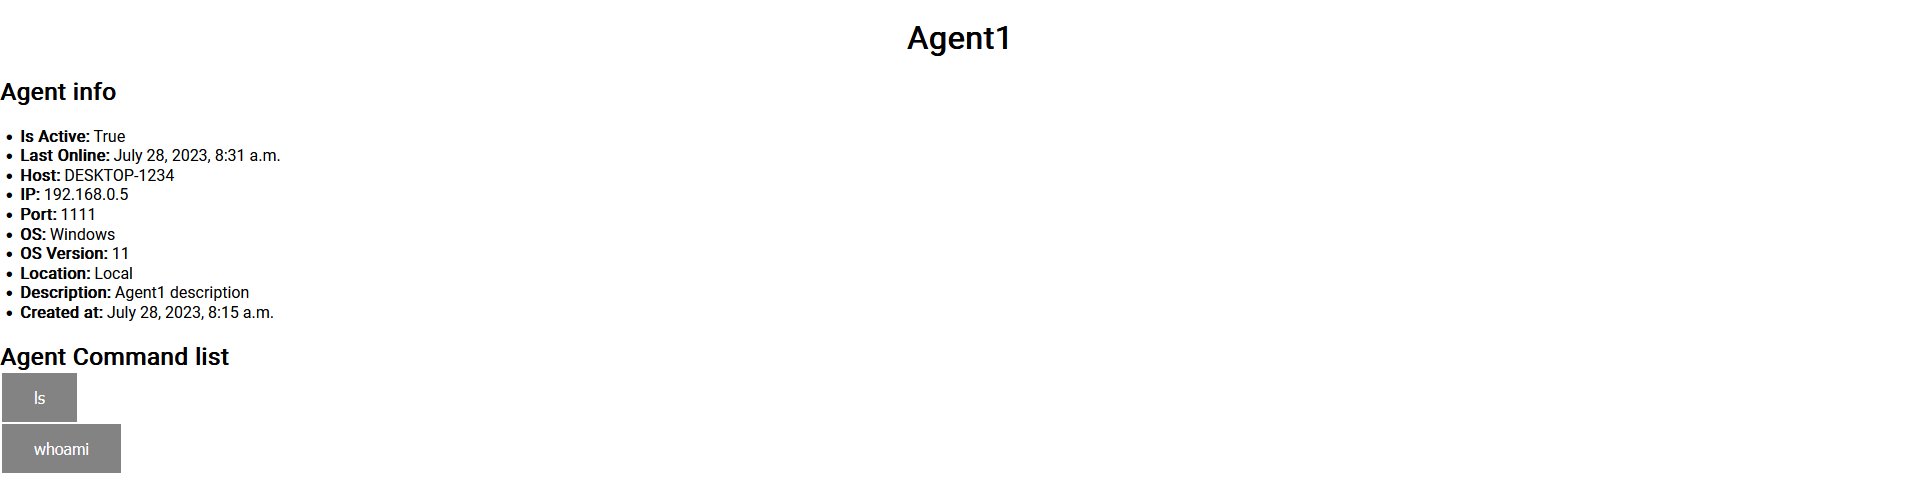
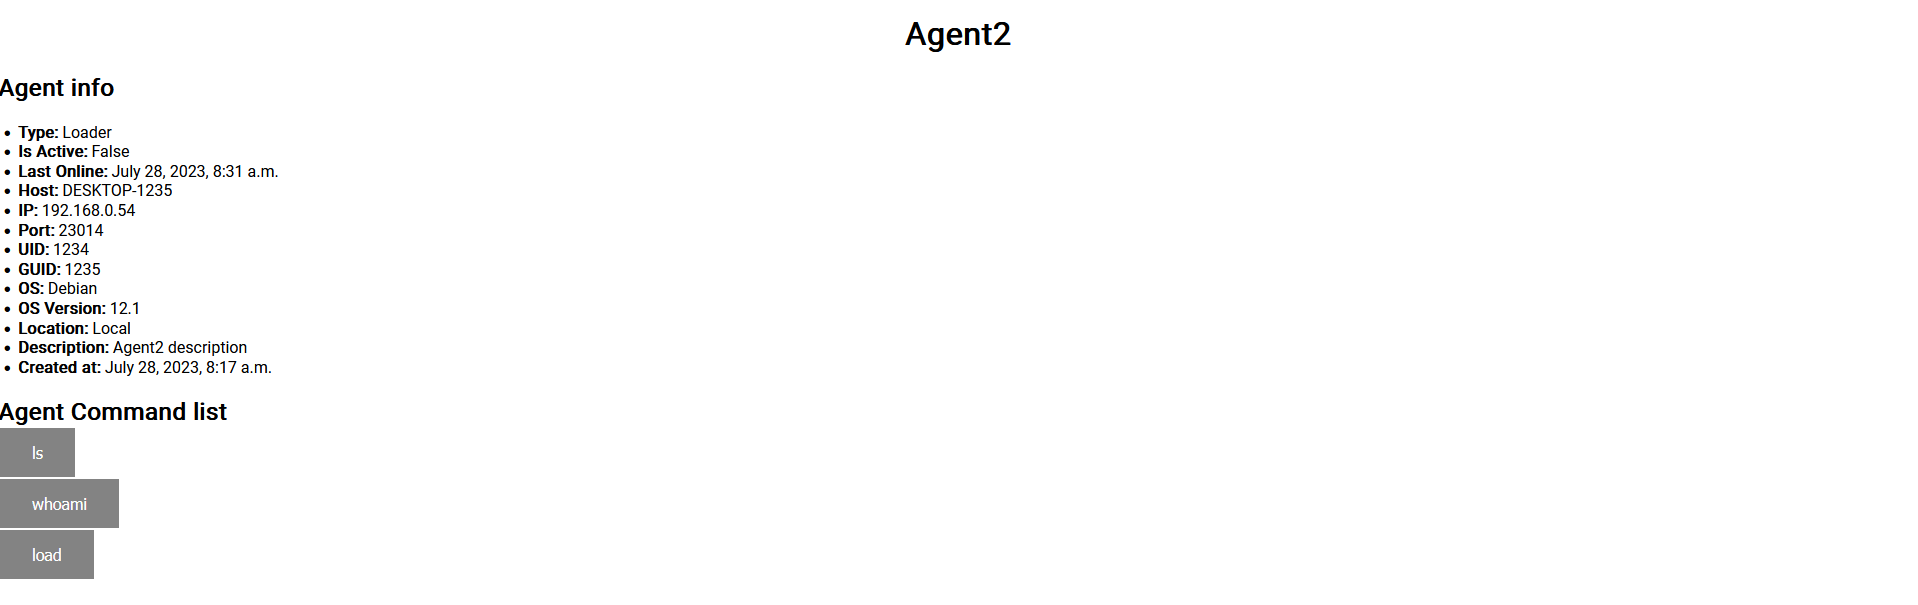
Agent type

Changed region(s): [[0.0, 0.1202, 0.1538, 0.7515], [0.0, 0.7816, 0.0615, 0.9619], [0.4614, 0.0301, 0.5229, 0.1202]]

diff --git a/IFHWI/C2/templates/C2/index.html b/IFHWI/C2/templates/C2/index.html
@@ -6,11 +6,14 @@
 <table class="AgentsTable">
     <tr>
         <th>Name</th>
+        <th>Type</th>
         <th>Is Ative</th>
         <th>Last Online</th>
         <th>Host</th>
         <th>IP</th>
         <th>Port</th>
+        <th>UID</th>
+        <th>GUID</th>
         <th>OS</th>
         <th>OS Version</th>
         <th>Location</th>
@@ -21,6 +24,7 @@
     {% for agent in agents %}
     <tr id="{{ agent.id }}" onclick="openAgent()">
         <td>{{ agent.name }}</td>
+        <td>{{ agent.type }}</td>
         <td>
             {% if agent.is_active %}
             <input type="checkbox" checked>
@@ -32,6 +36,8 @@
         <td>{{ agent.host }}</td>
         <td>{{ agent.ip }}</td>
         <td>{{ agent.port }}</td>
+        <td>{{ agent.uid }}</td>
+        <td>{{ agent.guid }}</td>
         <td>{{ agent.os }}</td>
         <td>{{ agent.os_version }}</td>
         <td>{{ agent.location }}</td>

diff --git a/IFHWI/C2/templates/C2/agent.html b/IFHWI/C2/templates/C2/agent.html
@@ -6,11 +6,14 @@
 <h2>Agent info</h2>
 
 <ul class="AgentInfo">
+    <li><b>Type:</b> {{ agent.type }}</li>
     <li><b>Is Active:</b> {{ agent.is_active }}</li>
     <li><b>Last Online:</b> {{ agent.last_online }}</li>
     <li><b>Host:</b> {{ agent.host }}</li>
     <li><b>IP:</b> {{ agent.ip }}</li>
     <li><b>Port:</b> {{ agent.port }}</li>
+    <li><b>UID:</b> {{ agent.uid }}</li>
+    <li><b>GUID:</b> {{ agent.guid }}</li>
     <li><b>OS:</b> {{ agent.os }}</li>
     <li><b>OS Version:</b> {{ agent.os_version }}</li>
     <li><b>Location:</b> {{ agent.location }}</li>

diff --git a/IFHWI/C2/migrations/0004_agenttype_agent_guid_agent_uid_and_more.py b/IFHWI/C2/migrations/0004_agenttype_agent_guid_agent_uid_and_more.py
@@ -1,0 +1,71 @@
+# Generated by Django 4.2.1 on 2023-07-29 09:38
+
+from django.db import migrations, models
+
+
+class Migration(migrations.Migration):
+
+    dependencies = [
+        ('C2', '0003_alter_command_description_alter_command_name_and_more'),
+    ]
+
+    operations = [
+        migrations.CreateModel(
+            name='AgentType',
+            fields=[
+                ('id', models.BigAutoField(auto_created=True, primary_key=True, serialize=False, verbose_name='ID')),
+                ('name', models.CharField(max_length=50)),
+                ('description', models.CharField(max_length=50)),
+            ],
+        ),
+        migrations.AddField(
+            model_name='agent',
+            name='guid',
+            field=models.CharField(blank=True, max_length=50, null=True),
+        ),
+        migrations.AddField(
+            model_name='agent',
+            name='uid',
+            field=models.CharField(blank=True, max_length=50, null=True),
+        ),
+        migrations.AlterField(
+            model_name='agent',
+            name='description',
+            field=models.CharField(blank=True, max_length=50, null=True),
+        ),
+        migrations.AlterField(
+            model_name='agent',
+            name='host',
+            field=models.CharField(blank=True, max_length=50, null=True),
+        ),
+        migrations.AlterField(
+            model_name='agent',
+            name='ip',
+            field=models.CharField(blank=True, max_length=50, null=True),
+        ),
+        migrations.AlterField(
+            model_name='agent',
+            name='last_online',
+            field=models.DateTimeField(),
+        ),
+        migrations.AlterField(
+            model_name='agent',
+            name='location',
+            field=models.CharField(blank=True, max_length=50, null=True),
+        ),
+        migrations.AlterField(
+            model_name='agent',
+            name='os',
+            field=models.CharField(blank=True, max_length=50, null=True),
+        ),
+        migrations.AlterField(
+            model_name='agent',
+            name='os_version',
+            field=models.CharField(blank=True, max_length=50, null=True),
+        ),
+        migrations.AlterField(
+            model_name='agent',
+            name='port',
+            field=models.IntegerField(blank=True, null=True),
+        ),
+    ]

diff --git a/IFHWI/C2/models.py b/IFHWI/C2/models.py
@@ -5,25 +5,36 @@ from django.db import models
 class Agent(models.Model):
     name = models.CharField(max_length=50)
     is_active = models.BooleanField(default=True)
-    last_online = models.DateTimeField()
-    host = models.CharField(max_length=50)  
-    ip = models.CharField(max_length=50)
-    port = models.IntegerField()
-    os = models.CharField(max_length=50)
-    os_version = models.CharField(max_length=50)
-    location = models.CharField(max_length=50)
-    description = models.CharField(max_length=50)
+    last_online = models.DateTimeField(null=True, blank=True)
+    host = models.CharField(max_length=50, null=True, blank=True)  
+    ip = models.CharField(max_length=50, null=True, blank=True)
+    port = models.IntegerField(null=True, blank=True)
+    uid = models.CharField(max_length=50, null=True, blank=True)
+    guid = models.CharField(max_length=50, null=True, blank=True)
+    os = models.CharField(max_length=50, null=True, blank=True)
+    os_version = models.CharField(max_length=50, null=True, blank=True)
+    location = models.CharField(max_length=50, null=True, blank=True)
+    description = models.CharField(max_length=50, null=True, blank=True)
     created = models.DateTimeField(auto_now_add=True)
-    commands = models.ManyToManyField('Command', blank=True)
+    type = models.ForeignKey('AgentType', on_delete=models.CASCADE, null=True, blank=True)
 
     def __str__(self):
         return self.name
 
 
+class AgentType(models.Model):
+    name = models.CharField(max_length=50)
+    description = models.CharField(max_length=50, null=True, blank=True)
+    commands = models.ManyToManyField('Command', blank=True)
+
+    def __str__(self):
+        return self.name
+    
+
 class Command(models.Model):
     name = models.CharField(max_length=50)
-    syntax = models.CharField(max_length=50)
-    description = models.CharField(max_length=50)
+    syntax = models.CharField(max_length=50, null=True, blank=True)
+    description = models.CharField(max_length=50, null=True, blank=True)
 
     def __str__(self):
         return self.name

diff --git a/IFHWI/C2/migrations/0005_agent_agent_type_alter_agenttype_description.py b/IFHWI/C2/migrations/0005_agent_agent_type_alter_agenttype_description.py
@@ -1,0 +1,24 @@
+# Generated by Django 4.2.1 on 2023-07-29 09:40
+
+from django.db import migrations, models
+import django.db.models.deletion
+
+
+class Migration(migrations.Migration):
+
+    dependencies = [
+        ('C2', '0004_agenttype_agent_guid_agent_uid_and_more'),
+    ]
+
+    operations = [
+        migrations.AddField(
+            model_name='agent',
+            name='agent_type',
+            field=models.ForeignKey(blank=True, null=True, on_delete=django.db.models.deletion.CASCADE, to='C2.agenttype'),
+        ),
+        migrations.AlterField(
+            model_name='agenttype',
+            name='description',
+            field=models.CharField(blank=True, max_length=50, null=True),
+        ),
+    ]

diff --git a/IFHWI/C2/views.py b/IFHWI/C2/views.py
@@ -8,7 +8,10 @@ def index(request):
     agents = Agent.objects.all()
 
     for agent in agents:
-        agent.command_list = agent.commands.all()
+        if agent.type:
+            agent.command_list = agent.type.commands.all()
+        else:
+            agent.command_list = []
 
     context = {
         'agents': agents,
@@ -20,7 +23,10 @@ def agent(request):
     agent_id = request.GET.get('id')
     agent = Agent.objects.get(id=agent_id)
 
-    agent.command_list = agent.commands.all()
+    if agent.type:
+        agent.command_list = agent.type.commands.all()
+    else:
+        agent.command_list = []
 
     context = {
         'agent': agent,

diff --git a/IFHWI/C2/migrations/0008_alter_command_description_alter_command_syntax.py b/IFHWI/C2/migrations/0008_alter_command_description_alter_command_syntax.py
@@ -1,0 +1,23 @@
+# Generated by Django 4.2.1 on 2023-07-29 09:45
+
+from django.db import migrations, models
+
+
+class Migration(migrations.Migration):
+
+    dependencies = [
+        ('C2', '0007_remove_agent_commands_agenttype_commands'),
+    ]
+
+    operations = [
+        migrations.AlterField(
+            model_name='command',
+            name='description',
+            field=models.CharField(blank=True, max_length=50, null=True),
+        ),
+        migrations.AlterField(
+            model_name='command',
+            name='syntax',
+            field=models.CharField(blank=True, max_length=50, null=True),
+        ),
+    ]

diff --git a/IFHWI/C2/migrations/0007_remove_agent_commands_agenttype_commands.py b/IFHWI/C2/migrations/0007_remove_agent_commands_agenttype_commands.py
@@ -1,0 +1,22 @@
+# Generated by Django 4.2.1 on 2023-07-29 09:44
+
+from django.db import migrations, models
+
+
+class Migration(migrations.Migration):
+
+    dependencies = [
+        ('C2', '0006_rename_agent_type_agent_type'),
+    ]
+
+    operations = [
+        migrations.RemoveField(
+            model_name='agent',
+            name='commands',
+        ),
+        migrations.AddField(
+            model_name='agenttype',
+            name='commands',
+            field=models.ManyToManyField(blank=True, to='C2.command'),
+        ),
+    ]

diff --git a/IFHWI/C2/migrations/0009_alter_agent_last_online.py b/IFHWI/C2/migrations/0009_alter_agent_last_online.py
@@ -1,0 +1,18 @@
+# Generated by Django 4.2.1 on 2023-07-29 09:51
+
+from django.db import migrations, models
+
+
+class Migration(migrations.Migration):
+
+    dependencies = [
+        ('C2', '0008_alter_command_description_alter_command_syntax'),
+    ]
+
+    operations = [
+        migrations.AlterField(
+            model_name='agent',
+            name='last_online',
+            field=models.DateTimeField(blank=True, null=True),
+        ),
+    ]

diff --git a/IFHWI/C2/migrations/0006_rename_agent_type_agent_type.py b/IFHWI/C2/migrations/0006_rename_agent_type_agent_type.py
@@ -1,0 +1,18 @@
+# Generated by Django 4.2.1 on 2023-07-29 09:42
+
+from django.db import migrations
+
+
+class Migration(migrations.Migration):
+
+    dependencies = [
+        ('C2', '0005_agent_agent_type_alter_agenttype_description'),
+    ]
+
+    operations = [
+        migrations.RenameField(
+            model_name='agent',
+            old_name='agent_type',
+            new_name='type',
+        ),
+    ]

diff --git a/IFHWI/C2/admin.py b/IFHWI/C2/admin.py
@@ -1,6 +1,7 @@
 from django.contrib import admin
-from .models import Agent, Command
+from .models import Agent, Command, AgentType
 
 # Register your models here.
 admin.site.register(Agent)
 admin.site.register(Command)
+admin.site.register(AgentType)

diff --git a/README.md b/README.md
@@ -3,3 +3,9 @@
 ![agent list](https://raw.githubusercontent.com/LucasJeanpierre/InfraHuntersWebInterface/main/IFHWI/C2/static/C2/images/screenshot0.png)
 
 ![agent info](https://raw.githubusercontent.com/LucasJeanpierre/InfraHuntersWebInterface/main/IFHWI/C2/static/C2/images/screenshot1.png)
+
+![change agent](https://raw.githubusercontent.com/LucasJeanpierre/InfraHuntersWebInterface/main/IFHWI/C2/static/C2/images/screenshot2.png)
+
+![command list](https://raw.githubusercontent.com/LucasJeanpierre/InfraHuntersWebInterface/main/IFHWI/C2/static/C2/images/screenshot3.png)
+
+![agent type](https://raw.githubusercontent.com/LucasJeanpierre/InfraHuntersWebInterface/main/IFHWI/C2/static/C2/images/screenshot4.png)
